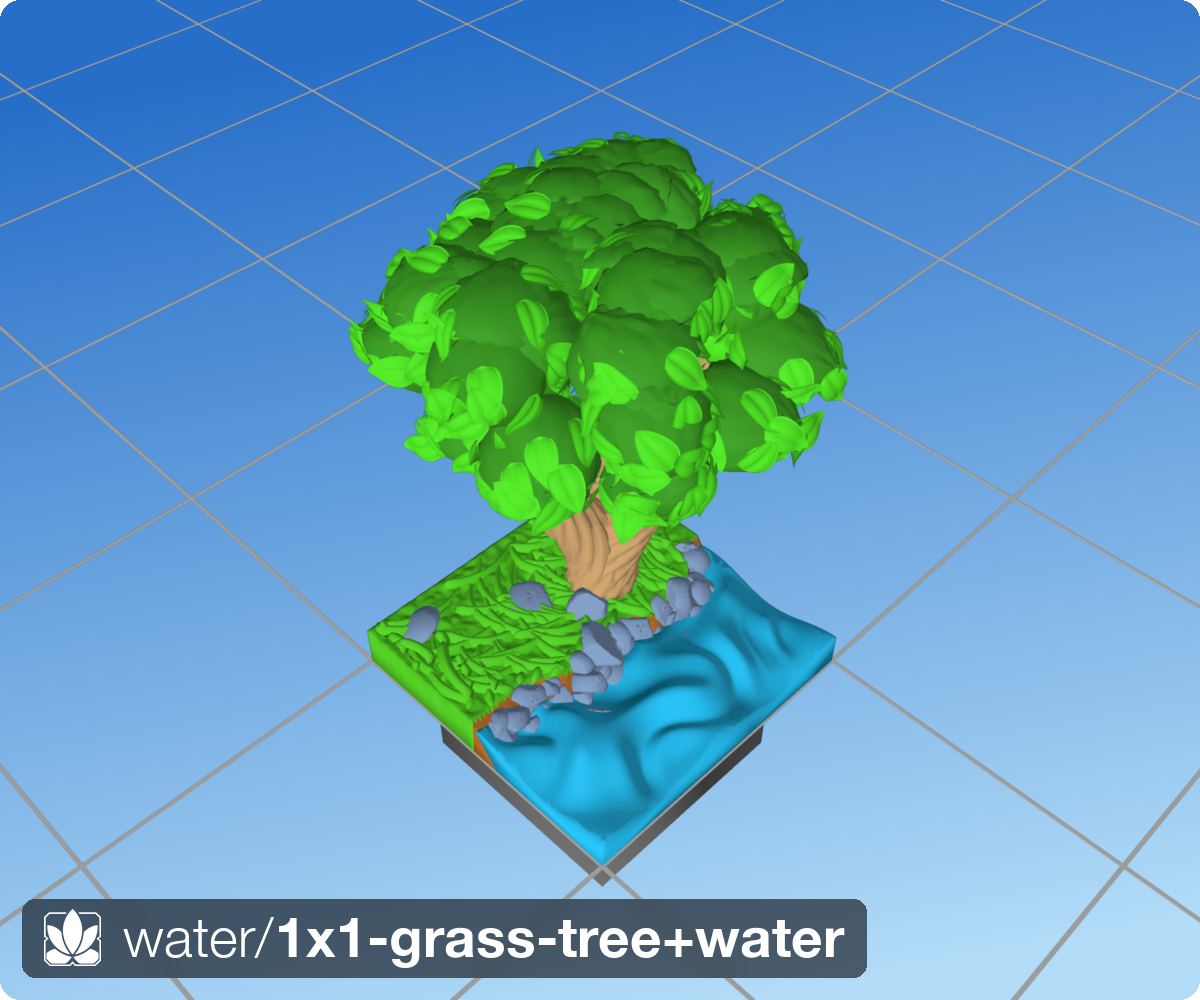
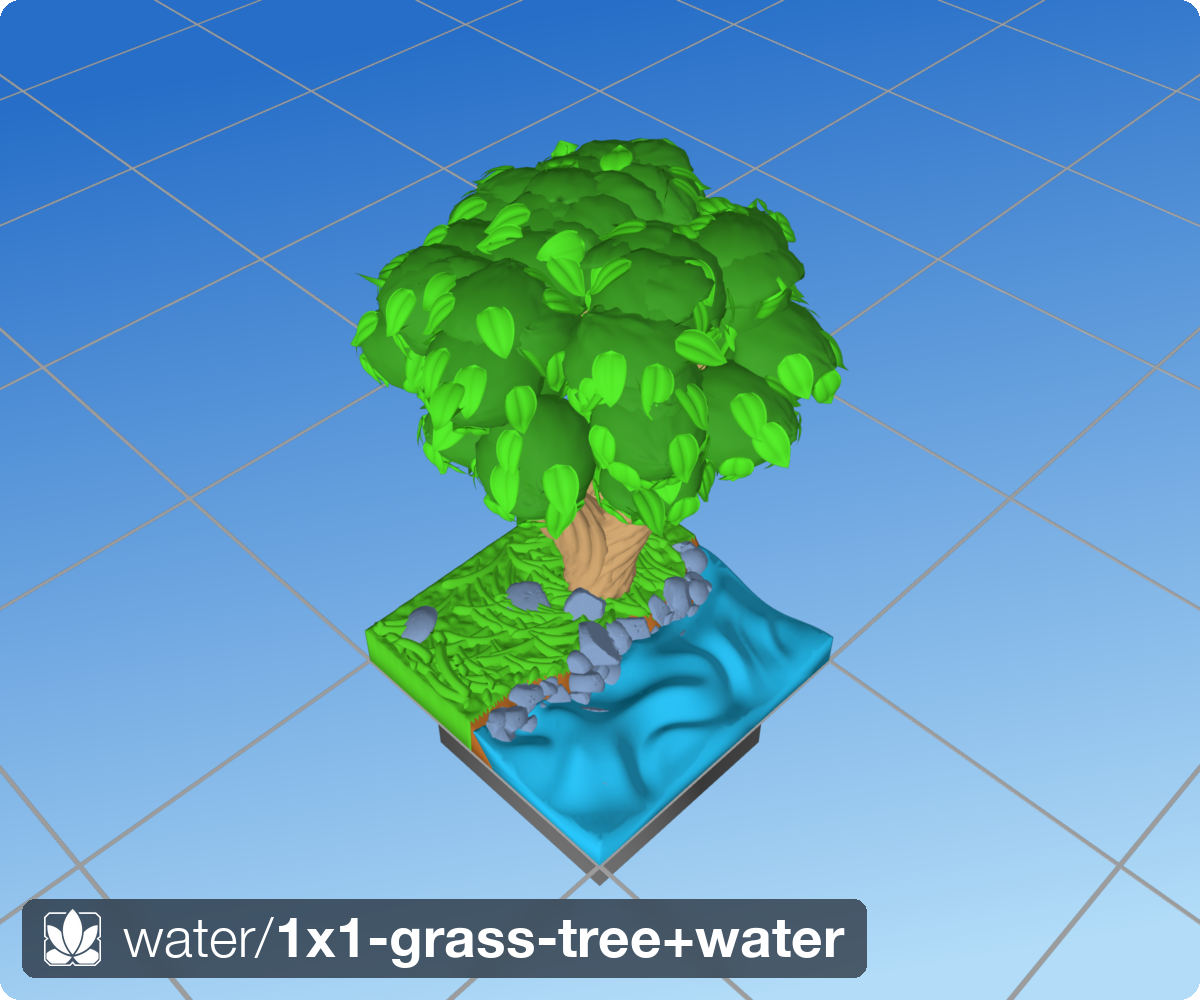
Greedy: leaves grow straight down-slope (vertical), no jitter
Change the growth direction from horizontal-outward to steepest DESCENT
(world-down projected onto the surface tangent plane), so every leaf's
base→tip axis points down along the surface — vertical, never sideways,
never up. Near the apex (where down-projection degenerates) fall back to
radial-outward, which still heads down over the crown.

Remove the azimuthal angle jitter entirely (no rotation). angle_jitter_deg
/ pos_jitter params are now ignored.

Tests pass (watertight / root-connected / blade-clear-of-mesh 41/41).
Tile leaf placement ~3s, Tree ~8s.

diff --git a/src/dharmatiles/trees/placement_greedy.py b/src/dharmatiles/trees/placement_greedy.py
@@ -43,7 +43,7 @@ from collections.abc import Callable
 import numpy as np
 import trimesh
 
-from ._utils import _hash01, _safe_norm
+from ._utils import _safe_norm
 from .leaf import (
     _LEAF_N_LAT,
     _LEAF_N_LONG,
@@ -209,26 +209,26 @@ def _sample_surface(mesh: trimesh.Trimesh, n: int, rng: np.random.Generator):
 
 
 def _growth_tangent(normal: np.ndarray, base: np.ndarray, centroid: np.ndarray) -> np.ndarray:
-    """Horizontal-outward growth direction in the local tangent plane.
+    """Steepest-DESCENT growth direction in the local tangent plane.
 
-    The leaf grows horizontally away from the cluster axis (radial in XY),
-    projected onto the surface tangent plane — so it comes out level "along its
-    bottom" rather than drooping downward.  On the upper canopy this tips the
-    blade slightly upward (tip above the root), giving the tip-z ordering for
-    free with no post-hoc lift.  Falls back to steepest ascent near a vertical
-    surface where the horizontal projection degenerates.
+    Every leaf points straight down-slope — world-down projected onto the surface
+    tangent plane — so leaves are always vertical (along the surface but pointing
+    down), never sideways and never up.  Near the apex, where the down projection
+    degenerates, fall back to radially-outward-in-XY (which still heads down over
+    the crown).
     """
+    down = np.array([0.0, 0.0, -1.0])
+    d = down - float(np.dot(down, normal)) * normal
+    dl = float(np.linalg.norm(d))
+    if dl > 1e-6:
+        return d / dl
+    # Apex (normal ≈ world-up): no down-slope direction — grow radially outward,
+    # which then heads down over the crown.
     radial = np.array([base[0] - centroid[0], base[1] - centroid[1], 0.0])
-    t = radial - float(np.dot(radial, normal)) * normal
-    tl = float(np.linalg.norm(t))
-    if tl > 1e-6:
-        return t / tl
-    # Degenerate (base directly above/below the axis): grow up-slope.
-    up = np.array([0.0, 0.0, 1.0])
-    u = up - float(np.dot(up, normal)) * normal
-    ul = float(np.linalg.norm(u))
-    if ul > 1e-6:
-        return u / ul
+    r = radial - float(np.dot(radial, normal)) * normal
+    rl = float(np.linalg.norm(r))
+    if rl > 1e-6:
+        return r / rl
     return _safe_norm(np.array([1.0, 0.0, 0.0]) - float(normal[0]) * normal)
 
 
@@ -413,7 +413,7 @@ def place_leaves_greedy(
         mi = cand.mesh_id
         base = cand.base
         normal = cand.normal
-        T0 = cand.tangent
+        T0 = cand.tangent          # steepest-descent (down-slope) growth; no jitter
         stats = stats_list[mi]
 
         # Cull for space-filling: keep roots ~min_root_gap apart (dense packing).
@@ -422,14 +422,6 @@ def place_leaves_greedy(
             continue
 
         lseed = int(_hash01_int(int(seeds_list[mi]), "greedy-leaf", cand.idx))
-        T0 = cand.tangent          # horizontal-outward growth (footprint direction)
-        # Optional azimuthal jitter of the growth direction about the normal.
-        if angle_jitter_deg != 0.0:
-            theta = math.radians(angle_jitter_deg) * (
-                _hash01(int(seeds_list[mi]), "greedy-ang", cand.idx) * 2.0 - 1.0
-            )
-            ct, st = math.cos(theta), math.sin(theta)
-            T0 = _safe_norm(T0 * ct + np.cross(normal, T0) * st)
 
         # Frame + root oval from two embedded mesh points (base end + tip end).
         # Both oval ends sit embed below the surface, so they are equidistant from
